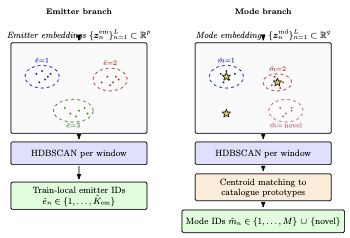
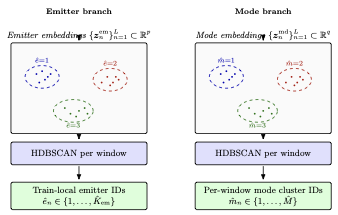
autosave: 2026-05-15T16:15:11Z

diff --git a/figures/method/cluster_decoding.tex b/figures/method/cluster_decoding.tex
@@ -2,11 +2,14 @@
 % Schematic of the inference-time mapping from continuous branch
 % embeddings to discrete per-pulse labels.  Two parallel pipelines
 % (emitter / mode) take the $L$-token embedding sequences produced by
-% the projection heads of \cref{sec:method:arch}, cluster them with
-% \gls{hdbscan} on a per-window basis, and emit the discrete partitions
-% of \cref{eq:method:emitter_predictor,eq:method:mode_predictor}.  The
-% mode branch adds a centroid-matching step against the training-time
-% catalogue prototypes, opening a ``novel mode'' pathway.  Loaded from
+% the projection heads of \cref{sec:method:arch} and cluster them
+% independently with \gls{hdbscan} on a per-window basis, yielding the
+% discrete partitions of
+% \cref{eq:method:emitter_predictor,eq:method:mode_predictor}.  The
+% pipelines are structurally identical; the asymmetry between the two
+% branches lives in the training loss (within-window vs. batch-wide
+% supervised contrastive) and in the semantic load of the integer
+% indices, not in the inference pipeline.  Loaded from
 % sections/04_method/03_architecture.tex via \input{...}.
 % =====================================================================
 \begin{tikzpicture}[
@@ -23,15 +26,9 @@
       minimum width=48mm, minimum height=32mm,
     },
     hdb/.style={block, fill=blue!12},
-    matchstep/.style={block, fill=orange!15},
     outblock/.style={block, fill=green!15},
     io/.style={align=center, font=\small\itshape, inner sep=2pt},
     pt/.style={circle, fill, inner sep=0pt, minimum size=1.8pt},
-    proto/.style={
-      star, star points=5, star point ratio=2.2,
-      fill=yellow!85!black, draw=black, very thin,
-      inner sep=0pt, minimum size=3mm,
-    },
     arrow/.style={->, thick, shorten <=1pt, shorten >=1pt},
     contour/.style={dashed, thick},
   ]
@@ -90,46 +87,38 @@
 
     \node[scatterbox] (md_scatter) at (0, -22mm) {};
 
-    % Cluster A -- matches catalogue prototype 1
+    % Cluster A
     \draw[contour, color=blue!70!black]
       ($(md_scatter.center)+(-13mm, 4mm)$) ellipse [x radius=6mm, y radius=4mm];
-    \foreach \x/\y in {-15/5, -13/6, -12/3, -10/5, -14/2}
+    \foreach \x/\y in {-15/5, -13/6, -12/3, -10/5, -14/2, -11/4}
       \node[pt, color=blue!70!black] at ($(md_scatter.center)+(\x mm, \y mm)$) {};
-    \node[proto] at ($(md_scatter.center)+(-13mm, 4mm)$) {};
     \node[font=\scriptsize, color=blue!70!black]
       at ($(md_scatter.center)+(-13mm, 10mm)$) {$\hat{m}{=}1$};
 
-    % Cluster B -- matches catalogue prototype 2
+    % Cluster B
     \draw[contour, color=red!70!black]
-      ($(md_scatter.center)+(5mm, 2mm)$) ellipse [x radius=5mm, y radius=3mm];
-    \foreach \x/\y in {3/1, 5/3, 7/2, 4/4, 6/0}
+      ($(md_scatter.center)+(11mm, 3mm)$) ellipse [x radius=6mm, y radius=4mm];
+    \foreach \x/\y in {8/2, 10/4, 12/2, 14/3, 11/1, 13/4}
       \node[pt, color=red!70!black] at ($(md_scatter.center)+(\x mm, \y mm)$) {};
-    \node[proto] at ($(md_scatter.center)+(5mm, 2mm)$) {};
     \node[font=\scriptsize, color=red!70!black]
-      at ($(md_scatter.center)+(5mm, 7mm)$) {$\hat{m}{=}2$};
+      at ($(md_scatter.center)+(11mm, 9mm)$) {$\hat{m}{=}2$};
 
-    % Cluster C -- novel (no prototype nearby)
-    \draw[contour, color=purple!75]
-      ($(md_scatter.center)+(8mm, -8mm)$) ellipse [x radius=6mm, y radius=4mm];
-    \foreach \x/\y in {6/-7, 8/-9, 10/-8, 7/-10, 10/-7}
-      \node[pt, color=purple!75] at ($(md_scatter.center)+(\x mm, \y mm)$) {};
-    \node[font=\scriptsize, color=purple!75]
-      at ($(md_scatter.center)+(8mm, -13mm)$) {$\hat{m}{=}\,\text{novel}$};
-
-    % An unmatched catalogue prototype off on its own
-    \node[proto] at ($(md_scatter.center)+(-13mm, -9mm)$) {};
+    % Cluster C
+    \draw[contour, color=green!45!black]
+      ($(md_scatter.center)+(-2mm, -8mm)$) ellipse [x radius=7mm, y radius=4mm];
+    \foreach \x/\y in {-5/-7, -3/-9, 0/-8, 2/-7, -1/-10, 3/-9}
+      \node[pt, color=green!45!black] at ($(md_scatter.center)+(\x mm, \y mm)$) {};
+    \node[font=\scriptsize, color=green!45!black]
+      at ($(md_scatter.center)+(-2mm, -13mm)$) {$\hat{m}{=}3$};
 
     \node[hdb] (md_hdb) at (0, -45mm)
       {\gls{hdbscan} per window};
-    \node[matchstep] (md_match) at (0, -57mm)
-      {Centroid matching to\\catalogue prototypes};
-    \node[outblock] (md_out) at (0, -69mm)
-      {Mode IDs $\hat{m}_n \in \{1,\ldots,M\}\,\cup\,\{\text{novel}\}$};
+    \node[outblock] (md_out) at (0, -60mm)
+      {Per-window mode cluster IDs\\$\hat{m}_n \in \{1,\ldots,\hat{M}\}$};
 
     \draw[arrow] (md_in) -- (md_scatter);
     \draw[arrow] (md_scatter) -- (md_hdb);
-    \draw[arrow] (md_hdb) -- (md_match);
-    \draw[arrow] (md_match) -- (md_out);
+    \draw[arrow] (md_hdb) -- (md_out);
   \end{scope}
 
 \end{tikzpicture}

diff --git a/sections/04_method/03_architecture.tex b/sections/04_method/03_architecture.tex
@@ -57,7 +57,7 @@ The decoder is not part of $\Enc$ and contributes no gradients; the trunk and br
 \begin{figure}[tbp]
   \centering
   \input{figures/method/cluster_decoding.tex}
-  \caption{Inference-time mapping from continuous branch embeddings to discrete per-pulse labels. Each window is clustered independently with \gls{hdbscan}: the emitter branch (left) maps to train-local integer IDs $\hat{e}_n$ that are only meaningful inside the current window, while the mode branch (right) compares each cluster centroid against catalogue prototypes (yellow stars) so that nearby clusters inherit a global mode index in $\{1,\ldots,M\}$ and clusters far from every prototype are flagged as candidate modes not present in the training catalogue. Dots represent pulse embeddings $\vect{z}^{\mathrm{em}}_n,\vect{z}^{\mathrm{md}}_n$ and dashed ellipses indicate the \gls{hdbscan} clusters of \cref{eq:method:emitter_predictor,eq:method:mode_predictor}.}
+  \caption{Inference-time mapping from continuous branch embeddings to discrete per-pulse labels. The two branches use the same per-window \gls{hdbscan} pipeline: each scatter cartoon shows the $L$ embeddings $\{\vect{z}^{\mathrm{em}}_n\}$ or $\{\vect{z}^{\mathrm{md}}_n\}$ of one window as dots, with dashed ellipses indicating the \gls{hdbscan} clusters that yield the discrete partitions of \cref{eq:method:emitter_predictor,eq:method:mode_predictor}. The integer outputs are local to each clustering instance in both cases. They are interpreted differently because the labels they approximate have different scope: $\hat{e}_n$ targets the train-local emitter symbols and $\hat{K}_{\mathrm{em}}$ varies window-by-window, whereas $\hat{m}_n$ targets the global mode catalogue and the cluster count $\hat{M}$ is not constrained to the training-time catalogue size $M$, leaving room for previously unseen modulation types to appear as additional clusters.}
   \label{fig:method:cluster_decoding}
 \end{figure}
 
@@ -65,8 +65,9 @@ The decoder is not part of $\Enc$ and contributes no gradients; the trunk and br
 Each window is thus a self-contained segment in embedding space, consistent with the windowing of \cref{sec:method:data}, and the effective cardinalities $\hat{K}_{\mathrm{em}}$ and $\hat{M}$ from \cref{eq:method:emitter_predictor,eq:method:mode_predictor} follow the density hierarchy rather than being fixed in advance.
 \Gls{hdbscan} replaces the single global density threshold of DBSCAN \parencite{ester1996density} with a hierarchy of density estimates, summarises the nested level sets in a condensed tree, and reads off a flat clustering by favouring groups that persist as coherent peaks rather than artefacts of a particular threshold \parencite{campello2015hierarchical}; the same construction supports an explicit noise category for points that are not assigned to any cluster leaf retained after the hierarchy is flattened, and the computations use the reference library described by \textcite{mcinnes2017hdbscan}.
 
-The two branches differ in how the resulting cluster indices are interpreted, reflecting the asymmetric label semantics of \cref{sec:method:formulation}.
-Emitter cluster indices are inherently train-local: each window is clustered in isolation and the integer labels carry no meaning across windows or across trains.
-Mode cluster indices, by contrast, refer to globally meaningful operating modes, so an additional matching step compares each mode-cluster centroid against prototypes derived from the training-time modes: clusters near a known prototype inherit the corresponding catalogue index in $\{1,\ldots,M\}$, while clusters far from every prototype are flagged as candidates for modulation types not present in the training catalogue, which is the open-set behaviour required by the held-out-mode experiments in \cref{ch:experiments}.
+The two branches share the same inference pipeline but differ in how the resulting integer indices relate to the underlying labels, reflecting the asymmetric label semantics of \cref{sec:method:formulation}.
+Emitter cluster indices are inherently train-local: each window is clustered in isolation and the integer labels carry no meaning across windows or across trains, mirroring the train-local definition of the emitter symbol.
+Mode cluster indices are likewise local to each clustering instance, but their geometric anchor is global: the batch-wide supervised contrastive term on the mode branch in \cref{sec:method:loss} aligns embeddings of the same operating mode across pulse trains, so pulses sharing a catalogue mode tend to fall in a common region of $\R^{q}$ even though the integer assigned to that region varies between windows.
+Because the clustering does not impose any prior on the number of mode clusters, the cluster count $\hat{M}$ is free to exceed the training-time catalogue size $M$ when previously unseen modulation types are present, which is the open-set behaviour required by the held-out-mode experiments in \cref{ch:experiments}; recovering catalogue-level mode identities from these per-window cluster indices is then an evaluation-time alignment problem, handled by the permutation-invariant metrics of \cref{sec:method:metrics}.
 
 The collection of all linear maps in \cref{eq:method:input_embed,eq:method:proj_heads} together with the attention and \gls{ffn} weights of the trunk and branches constitutes the parameter vector $\bm{\theta}$ that the loss in \cref{sec:method:loss} optimises.

diff --git a/sections/04_method/04_loss_function.tex b/sections/04_method/04_loss_function.tex
@@ -93,6 +93,6 @@ The overall training loss is the weighted sum
 with $\lambda_{\mathrm{md}}$ treated as a hyperparameter and reported in \cref{ch:experiments}.
 
 For emitter inference on a previously unseen pulse train, the deliverable is the discrete per-pulse assignment $\hat{e}_n$ in \cref{eq:method:emitter_predictor}, obtained by clustering the emitter embeddings $\{\vect{z}^{\mathrm{em}}_n\}$ within each test window with the post-hoc clustering algorithm of \cref{sec:method:arch}.
-For mode inference, the analogous discrete assignment $\hat{m}_n$ in \cref{eq:method:mode_predictor} is obtained by clustering the mode embeddings $\{\vect{z}^{\mathrm{md}}_n\}$ with the same algorithm.
-The clustering for the mode branch is allowed to produce more clusters than the number of catalogue entries $M$ seen during training: cluster centroids that align to training-time mode prototypes can be labelled with their catalogue index, whereas additional clusters far from every training prototype are flagged as candidate previously unseen modes.
-The continuous embeddings $\vect{z}^{\mathrm{em}}_n$ and $\vect{z}^{\mathrm{md}}_n$ remain useful for inspection, prototype matching, and downstream tasks that benefit from a geometric rather than purely categorical representation, but once $\hat{e}_n$ and $\hat{m}_n$ have been fixed, storing every embedding is optional for operational consumers of the discrete output.
+For mode inference, the analogous discrete assignment $\hat{m}_n$ in \cref{eq:method:mode_predictor} is obtained by applying the same per-window clustering to the mode embeddings $\{\vect{z}^{\mathrm{md}}_n\}$; the two branches therefore share their inference pipeline and differ only in the embeddings they consume and in the scope of the supervision that shaped them.
+The clustering for the mode branch imposes no prior on the number of clusters $\hat{M}$, so $\hat{M}$ may exceed the size $M$ of the training-time catalogue when modulation types absent from training are encountered at inference; recovering catalogue-level mode identities from these per-window cluster indices is left as an evaluation-time alignment problem handled by the permutation-invariant metrics of \cref{sec:method:metrics}.
+The continuous embeddings $\vect{z}^{\mathrm{em}}_n$ and $\vect{z}^{\mathrm{md}}_n$ remain useful for inspection and for downstream tasks that benefit from a geometric rather than purely categorical representation, but once $\hat{e}_n$ and $\hat{m}_n$ have been fixed, storing every embedding is optional for operational consumers of the discrete output.

diff --git a/sections/06_discussion/04_implications.tex b/sections/06_discussion/04_implications.tex
@@ -1,7 +1,7 @@
 \section{Implications}\label{sec:disc:implications}
 
 For \gls{elint} and \gls{esm} practice, the main takeaway is methodological: joint emitter- and mode-aware embeddings can be learned from \gls{pdw} streams whose supervision is structured asymmetrically (train-local emitter labels, global mode catalogue), with downstream discretisation handled by clustering on \emph{both} branches so that previously unseen emitters and modulation types can in principle surface as distinct clusters rather than be silently absorbed into existing catalogue entries.
-Operators should treat the resulting per-pulse emitter and mode cluster indices as hypotheses that require human or library-based adjudication before tactical use, especially when training data are synthetic and drift relative to live emitters or to mode catalogues is unmodelled; clusters far from every training-time prototype are particularly informative as candidate novel modes and warrant separate review.
+Operators should treat the resulting per-pulse emitter and mode cluster indices as hypotheses that require human or library-based adjudication before tactical use, especially when training data are synthetic and drift relative to live emitters or to mode catalogues is unmodelled; in particular, mode-branch clusters whose count exceeds the size of the training catalogue, or that occupy regions of the mode embedding space far from those populated by training-time modes, are informative as candidate novel modulations and warrant separate review.
 
 For the deep-clustering and sequence-modeling research communities, the thesis sits at the intersection of contrastive representation learning on irregular pulse sequences and multi-partition clustering with a physical nesting constraint (modes within emitters).
 The architectural and loss choices in \cref{ch:method} are portable to other domains with hierarchical latent structure, provided that evaluation metrics separate which level of the hierarchy is being scored.